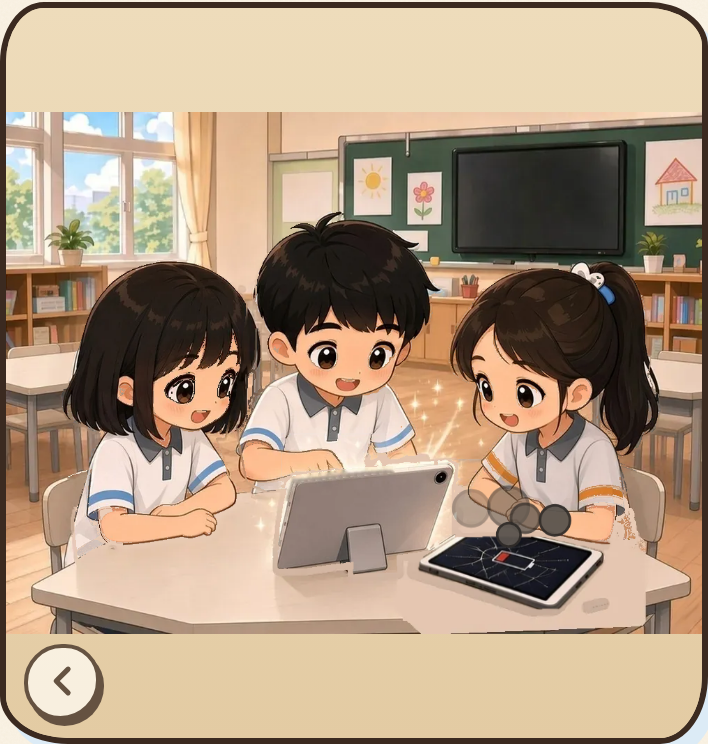
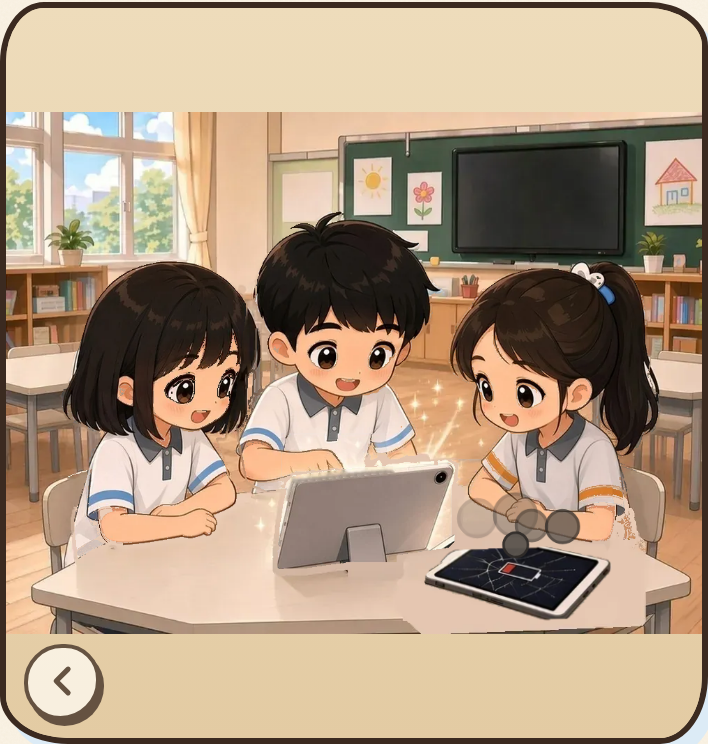
Move the broken tablet out and restore its missing top-left corner.
Complete the rounded white bezel and black screen on the side nearest the new iPad, shift the tablet down-right so the two devices no longer overlap, paint the old table footprint clean, and move the hit target and smoke with it.

Changed region(s): [[0.5904, 0.6492, 0.8701, 0.8347], [0.4972, 0.7419, 0.5593, 0.7728]]

diff --git a/teacher-preview.html b/teacher-preview.html
@@ -572,11 +572,11 @@
   .i-sprite-right{left:61.8%; top:28.2667%; width:32.4%; height:54.6667%}
   .i-sprite-ipad{left:38.9%; top:67.0667%; width:26.4%; height:22%}
   .i-sprite-hands{left:39.4%; top:61.6%; width:15.3%; height:10.5333%}
-  .i-sprite-broken{left:58.2%; top:81.2%; width:27.9%; height:14.5333%}
+  .i-sprite-broken{left:60.2%; top:83.3333%; width:27.2%; height:14.5333%}
   .i-kid-left{transform-origin:21.35% 86%}     /* 原圖 (213.5,645) 腳下 */
   .i-kid-boy, .i-kid-hands{transform-origin:47.9% 75.3333%} /* 原圖 (479,565)：身體與雙手共用同一軸，一起跳才對得齊 */
   .i-kid-right{transform-origin:78% 83%}       /* 原圖 (780,622) */
-  .i-broken{transform-origin:71.65% 90.6%}     /* 原圖 (716.5,679.5) */
+  .i-broken{transform-origin:73.65% 92.7333%}  /* 原圖 (736.5,695.5)，隨壞平板右下移 */
 
   /* 小朋友：整層輕跳歡呼（約 20px），頭上冒星星／愛心（在該小孩層裡，跟著一起跳） */
   .play-left .i-kid-left, .play-boy .i-kid-boy, .play-boy .i-kid-hands, .play-right .i-kid-right{animation:iHop 1.3s cubic-bezier(.3,1.35,.5,1) .05s both}
@@ -634,7 +634,7 @@
   .i-hit-boy{left:33%; top:15%; width:28%; height:48%}
   .i-hit-right{left:62%; top:22%; width:32%; height:50%}
   .i-hit-ipad{left:39%; top:66%; width:26%; height:23%; z-index:8; border-radius:14px}
-  .i-hit-broken{left:58%; top:81%; width:28%; height:16%; z-index:8; border-radius:14px}
+  .i-hit-broken{left:60%; top:83.0667%; width:27.6%; height:15.6%; z-index:8; border-radius:14px}
 
   /* 只限第 3 張、直式版面：左右箭頭移到格子下緣，不擋小朋友的臉；寬螢幕維持原樣 */
   @media not all and (min-width:860px) and (min-height:560px){
@@ -1129,14 +1129,14 @@
 
               <!-- 壞平板層：精靈圖＋灰色小煙（一起抖） -->
               <div class="i-layer i-broken" aria-hidden="true">
-                <img class="i-sprite-broken" src="assets/ipad-class-broken.webp" alt="" width="279" height="109" draggable="false">
+                <img class="i-sprite-broken" src="assets/ipad-class-broken.webp" alt="" width="272" height="109" draggable="false">
                 <svg class="ipad-fx" viewBox="0 0 1000 750" preserveAspectRatio="xMidYMid meet" aria-hidden="true" focusable="false">
                   <g fill="#5A544E" stroke="#2F2B28" stroke-width="2.8">
-                    <circle class="i-smoke" style="--d:.35s;--dx:-14px" cx="672" cy="638" r="15"/>
-                    <circle class="i-smoke" style="--d:.45s;--dx:8px" cx="708" cy="628" r="18"/>
-                    <circle class="i-smoke" style="--d:.55s;--dx:-6px" cx="742" cy="636" r="14"/>
-                    <circle class="i-smoke" style="--d:.65s;--dx:16px" cx="772" cy="630" r="16"/>
-                    <circle class="i-smoke" style="--d:.75s;--dx:-10px" cx="720" cy="648" r="13"/>
+                    <circle class="i-smoke" style="--d:.35s;--dx:-14px" cx="692" cy="654" r="15"/>
+                    <circle class="i-smoke" style="--d:.45s;--dx:8px" cx="728" cy="644" r="18"/>
+                    <circle class="i-smoke" style="--d:.55s;--dx:-6px" cx="762" cy="652" r="14"/>
+                    <circle class="i-smoke" style="--d:.65s;--dx:16px" cx="792" cy="646" r="16"/>
+                    <circle class="i-smoke" style="--d:.75s;--dx:-10px" cx="740" cy="664" r="13"/>
                   </g>
                 </svg>
               </div>
